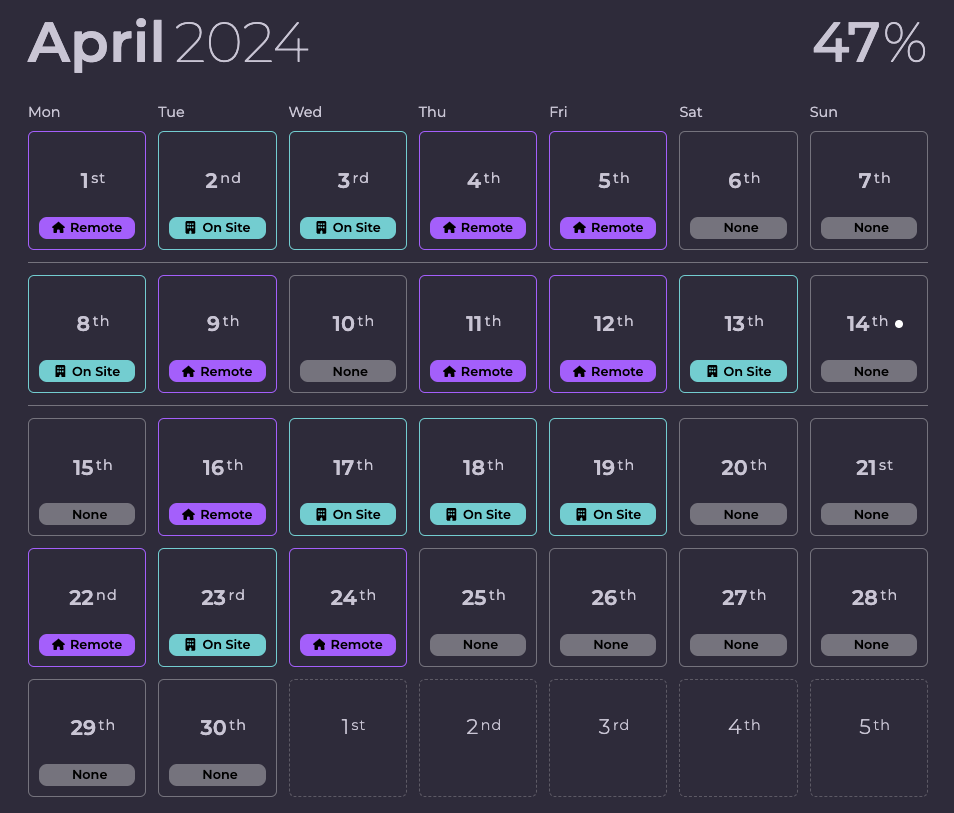
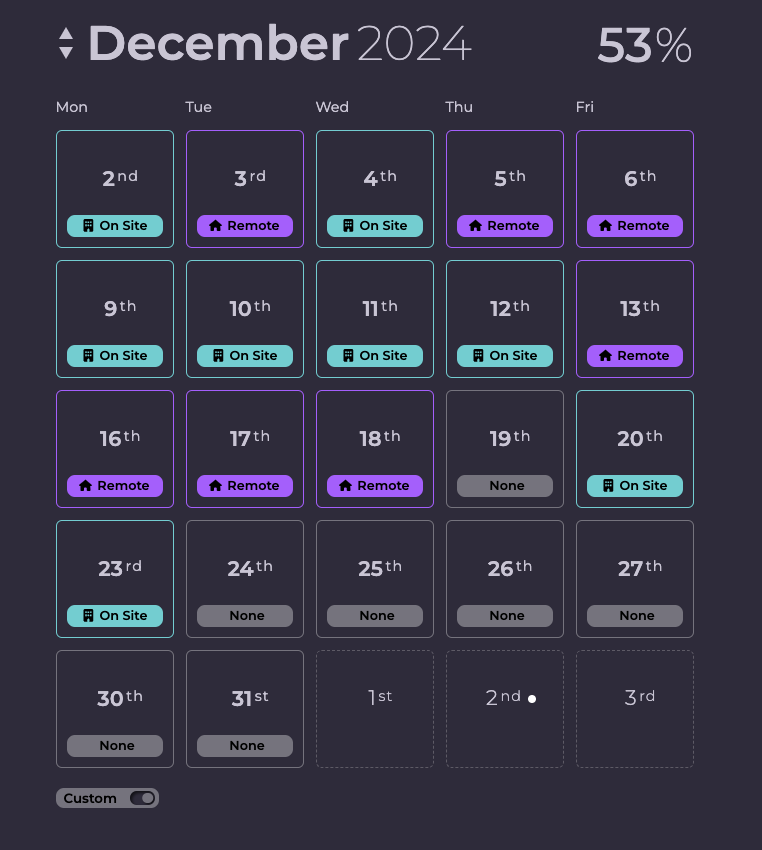
Updating readme and screenshot

diff --git a/README.md b/README.md
@@ -5,6 +5,7 @@
  - Track your remote vs on-site ratio.
  - Works in browser or as a PWA desktop app.
  - All progress and config settings are saved locally in browser, no back-end needed.
+ - Keyboard and screen reader support
 
 ![alt text](https://github.com/A-A-Z/hycalc/raw/main/src/common/screenshot1.png "HyCalc screenshot")
 
@@ -40,7 +41,6 @@ Once setup you can use these commands:
 (Not in order, no promises)
 
 - [ ] Select/toggle modes
-- [ ] Month select/stats
 - [ ] Plan mode
 - [ ] Language
 - [ ] Light theme
@@ -48,6 +48,8 @@ Once setup you can use these commands:
 - [ ] Mobile support
 - [ ] Import/export
 - [ ] Multi-select
+- [ ] Stickers
+- [x] Month select/stats
 - [x] Hide/show days of the week
 
 ## License
